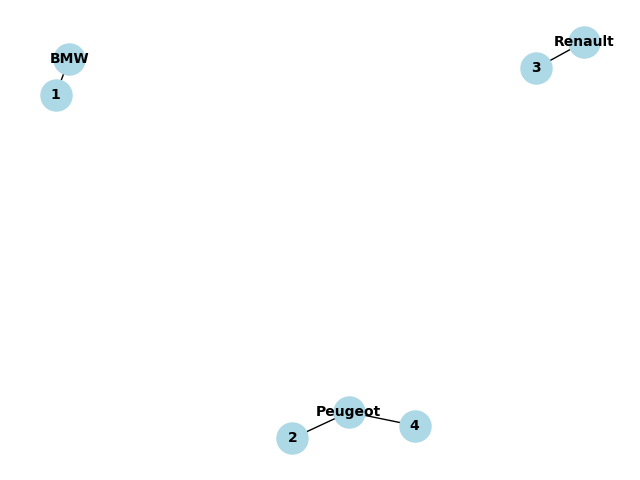
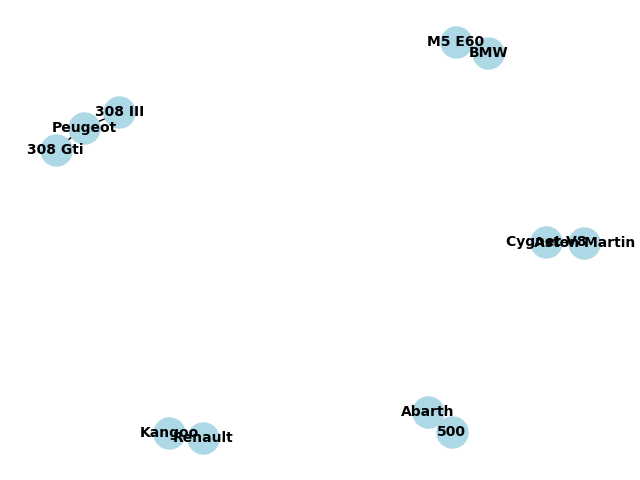
sdqsd

diff --git a/projet.py b/projet.py
@@ -4,7 +4,7 @@ import networkx as nx
 import matplotlib.pyplot as plt
 
 connexion = sqlite3.connect('voiture.db')
-            
+       
 def ajouter(connexion):
     print("Ajouter un véhicule")
     marque = input("Marque : ")
@@ -23,17 +23,34 @@ def ajouter(connexion):
     longueur = float(input("Longueur : "))
     largeur = float(input("Largeur : "))
     curseur = connexion.cursor()
-    curseur.execute('''INSERT INTO voiture (marque, modele, annee, kilometrage, puissance, poids, couleur, etat, prix, type, critair, coffre, hauteur, longueur, largeur)
-    VALUES (?, ?, ?, ?, ?, ?, ?, ?, ?, ?, ?, ?, ?, ?, ?)''', (marque, modele, annee, kilometrage, puissance, poids, couleur, etat, prix, type, critair, coffre, hauteur, longueur, largeur))
+    curseur.execute("INSERT INTO voiture(marque, modele, annee, kilometrage, puissance, poids, couleur, etat, prix, type, critair, coffre, hauteur, longueur, largeur) VALUES (?, ?, ?, ?, ?, ?, ?, ?, ?, ?, ?, ?, ?, ?, ?)", (marque, modele, annee, kilometrage, puissance, poids, couleur, etat, prix, type, critair, coffre, hauteur, longueur, largeur))
     connexion.commit()
 
-def supprimer():
-    pass
+def supprimer(connexion):
+    print("Supprimer un véhicule")
+    id = int(input("ID du véhicule à supprimer : "))
+    curseur = connexion.cursor()
+    curseur.execute("DELETE FROM voiture WHERE id = ?", (id,))
+    connexion.commit()
+    if connexion.total_changes > 0:
+        print("Véhicule supprimé avec succès.")
+    else:
+        print("Aucun véhicule trouvé avec cet ID.")
+
 def afficher(connexion):
     curse = connexion.cursor()
-    curse.execute("SELECT * FROM voiture")
-    imprimer(curse)
-                
+    print("Voulez vous triez les vehicules ? (O/N)")
+    choix = input("Choix : ")
+    if choix == "O":
+        tri(connexion)
+    elif choix == "N":
+        curse.execute("SELECT * FROM voiture")
+        imprimer(curse)
+    else:
+        print("Choix invalide.")
+        curse.close()
+        return
+             
 def rechercher(connexion):
     print("Rechercher par : ")
     print("1. Marque")
@@ -103,7 +120,7 @@ def creer_graphe(connexion):
     curseur = connexion.cursor()
     curseur.execute("SELECT * FROM voiture")  
     for row in curseur:
-        car_id = row[0]
+        car_id = row[2]
         owner_id = row[1]
         graphe.add_node(car_id, label="car")
         graphe.add_node(owner_id, label="owner")
@@ -143,19 +160,37 @@ def imprimer(curse):
         headers = ["Marque", "Modele", "Annee", "Kilometrage", "Puissance", "Poids", "Couleur", "Etat", "Prix", "Type", "Crit'air", "Coffre", "Hauteur", "Longueur", "Largeur"]
         print(tabulate(resultats, headers=headers, tablefmt="grid", stralign='center', numalign='center'))
 
+def tri(connexion) :
+    curse = connexion.cursor()
+    print("Trier par : ")
+    print("1. Prix croissant")
+    print("2. Prix decroissant")
+    choix = int(input("Choix : "))
+    if choix == 1:
+        curse.execute("SELECT * FROM voiture ORDER BY prix ASC")
+    elif choix == 2:
+        curse.execute("SELECT * FROM voiture ORDER BY prix DESC")
+    else:
+        print("Choix invalide.")
+        curse.close()
+        return
+    imprimer(curse)
+
 while True :
-    print("1. Ajouter les criteres")
-    print("2. Ajouter un vehicule")
-    print("3. Afficher les vehicules")
-    print("4. Rechercher un vehicule")
+    print("1. Ajouter un vehicule")
+    print("2. Afficher les vehicules")
+    print("3. Rechercher un vehicule")
+    print("4. Supprimer un vehicule")
     print("5. Quitter")
     choix = int(input("Choix : "))
-    if choix == 2:
+    if choix == 1:
         ajouter(connexion)
-    elif choix == 3:
+    elif choix == 2:
         afficher(connexion)
-    elif choix == 4:
+    elif choix == 3:
         rechercher(connexion)
+    elif choix == 4:
+        supprimer(connexion)
     elif choix == 5:
         break
     else:
